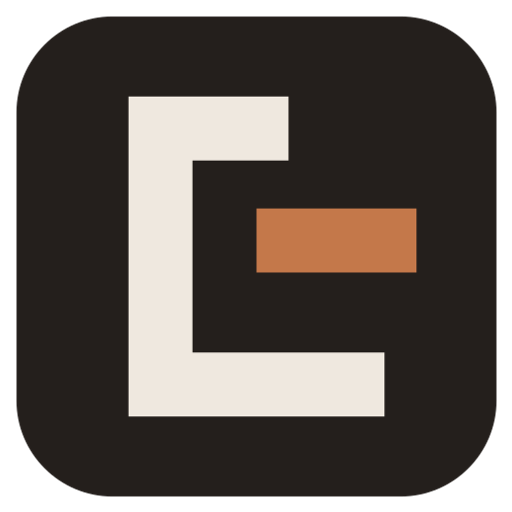
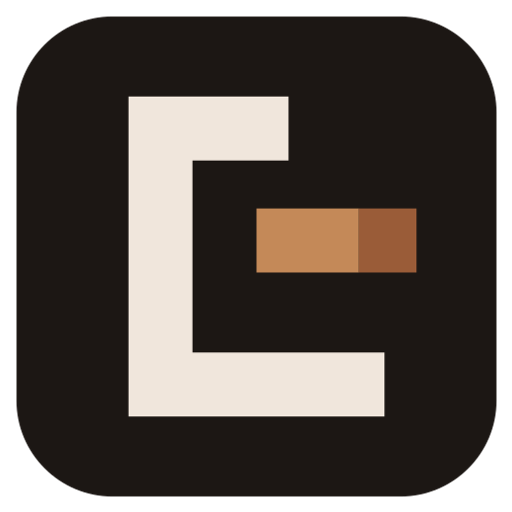
公開名をチーズナンの裏にし、アクセントを焦げ目に寄せる
SITE_TITLE だけを書き換え、印の先を少し焦がし、一行のタグラインを足した。

Changed region(s): [[0.6875, 0.4062, 0.8125, 0.5312]]

diff --git a/src/config.ts b/src/config.ts
@@ -20,7 +20,7 @@ import { LinkPreset } from "./types/config";
 
 // 公開名。タイトル、OGP、RSS、ナビゲーションの文字は siteConfig.title だけを表示する。
 // 名前を変えるときは、この文字列だけを書き換える。ロゴ画像には文字を焼いていない。
-const SITE_TITLE = "ナンでもメモ";
+const SITE_TITLE = "チーズナンの裏";
 
 // 定义站点语言
 const SITE_LANG = "ja"; // 语言代码，例如：'en', 'zh_CN', 'ja' 等。
@@ -44,7 +44,7 @@ export const siteConfig: SiteConfig = {
 	lang: SITE_LANG,
 
 	themeColor: {
-		hue: 28, // 暗いページに、鈍い錆色を一つだけ
+		hue: 42, // 焦げ目に近い、鈍い茶色を一つだけ
 		fixed: true,
 	},
 

diff --git a/src/styles/quiet-log.css b/src/styles/quiet-log.css
@@ -125,15 +125,17 @@ body:not(.enable-banner) #banner-wrapper {
 }
 
 #navbar .wordmark {
-	max-width: 7.5rem;
+	max-width: 11rem;
 	overflow: hidden;
 	text-overflow: ellipsis;
 	white-space: nowrap;
+	letter-spacing: 0;
 }
 
 @media (min-width: 768px) {
 	#navbar .wordmark {
-		max-width: 16rem;
+		max-width: 18rem;
+		letter-spacing: 0.02em;
 	}
 }
 

diff --git a/CLAUDE.md b/CLAUDE.md
@@ -4,7 +4,7 @@
 
 ## プロジェクト概要
 
-**cheese-nan**（公開名は「ナンでもメモ」）は [Mizuki](https://github.com/matsuzaka-yuki/mizuki) テーマをベースにした個人ブログです。Astro + Svelte + Tailwind CSS で構築された静的サイトです。リポジトリ名と公開URLは cheese-nan のままです。
+**cheese-nan**（公開名は「チーズナンの裏」。変えるときは `src/config.ts` の `SITE_TITLE` だけ）は [Mizuki](https://github.com/matsuzaka-yuki/mizuki) テーマをベースにした個人ブログです。Astro + Svelte + Tailwind CSS で構築された静的サイトです。リポジトリ名と公開URLは cheese-nan のままです。
 
 - サイトURL: https://cheese-nan.pages.dev/
 - 言語: 日本語 (`ja`)

diff --git a/src/content/spec/about.md b/src/content/spec/about.md
@@ -9,11 +9,11 @@
 - メール: （TODO: アドレスを書く）
 - X: （TODO: プロフィールのURLを書く）
 
-## 以前のブログ
+## はてなブログ
 
-2019年ごろの記事は、はてなブログに残しています。一部はこちらにも移してあります。
+2019年ごろから、同じ名前ではてなブログに書いていた。続きはこちらに書く。古い記事の一部は移してあり、残りはあちらのまま。
 
-[チーズナンの裏](https://cheese-nan.hatenablog.com/)
+[はてなブログ](https://cheese-nan.hatenablog.com/)
 
 ## このサイト
 

diff --git a/public/assets/sample/CREDITS.md b/public/assets/sample/CREDITS.md
@@ -7,6 +7,6 @@
 ## mark.svg / mark.png / avatar.webp / favicon
 
 - 作者: このサイト用に自作
-- 図: 暗い地に、閉じていない括弧と一本の記録線
+- 図: 暗い地に、閉じていない括弧と、先が少し焦げた記録線
 - ライセンス: 自作。第三者の図像もライセンスも使っていません。
 - 顔写真ではありません。
